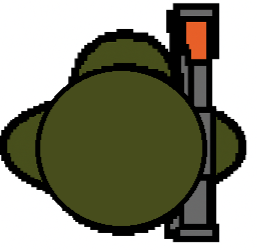
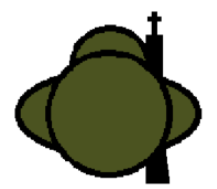
weapon switch

Changed region(s): [[0.0, 0.0, 0.9677, 0.9788]]

diff --git a/source/core/src/main/com/csse3200/game/components/hero/HeroOneShotFormSwitchComponent.java b/source/core/src/main/com/csse3200/game/components/hero/HeroOneShotFormSwitchComponent.java
@@ -1,37 +1,41 @@
 package com.csse3200.game.components.hero;
 
 import com.badlogic.gdx.Input;
+import com.badlogic.gdx.utils.Timer;
 import com.csse3200.game.entities.Entity;
 import com.csse3200.game.entities.configs.HeroConfig;
 import com.csse3200.game.entities.configs.HeroConfig2;
 import com.csse3200.game.entities.configs.HeroConfig3;
+import com.csse3200.game.input.InputComponent;
 import com.csse3200.game.rendering.RotatingTextureRenderComponent;
 import com.csse3200.game.services.ResourceService;
 import com.csse3200.game.services.ServiceLocator;
-import com.csse3200.game.input.InputComponent;
 import org.slf4j.Logger;
 import org.slf4j.LoggerFactory;
 
 import java.lang.reflect.Method;
 
 /**
- * 一次性“英雄换肤”组件（无 removeComponent 版本）：
- * - 如未生成英雄，按键时会懒查找；
- * - 切换成功后锁定并自注销；
- * - 优先 setTexture(String)；若无，则隐藏旧渲染(+尽量 dispose)，再添加新渲染组件。
+ * 一次性“英雄换肤”组件（轮询发现英雄 + 5 秒自动默认第一形态 + 无 removeComponent 兜底）。
  */
 public class HeroOneShotFormSwitchComponent extends InputComponent {
     private static final Logger logger = LoggerFactory.getLogger(HeroOneShotFormSwitchComponent.class);
 
-    private final HeroConfig  cfg1; // 1
+    private static final float POLL_INTERVAL_SEC = 0.25f; // 轮询查找英雄
+    private static final float AUTO_DEFAULT_DELAY_SEC = 5f; // 找到英雄后 5 秒默认第一形态
+
+    private final HeroConfig  cfg1; // 1（默认）
     private final HeroConfig2 cfg2; // 2
     private final HeroConfig3 cfg3; // 3
 
     private Entity hero;
     private boolean locked = false;
 
+    private Timer.Task pollTask;        // 轮询查找英雄
+    private Timer.Task autoDefaultTask; // 5 秒自动默认
+
     public HeroOneShotFormSwitchComponent(HeroConfig cfg1, HeroConfig2 cfg2, HeroConfig3 cfg3) {
-        super(1000);
+        super(1000); // 高优先级，保证拿到 1/2/3
         this.cfg1 = cfg1;
         this.cfg2 = cfg2;
         this.cfg3 = cfg3;
@@ -40,35 +44,85 @@ public class HeroOneShotFormSwitchComponent extends InputComponent {
     @Override
     public void create() {
         super.create();
-        // 预加载
+        // 预加载三套贴图，避免切换时资源缺失
         ResourceService rs = ServiceLocator.getResourceService();
         rs.loadTextures(new String[]{
-                (cfg1 != null ? cfg1.heroTexture : null),
-                (cfg2 != null ? cfg2.heroTexture : null),
-                (cfg3 != null ? cfg3.heroTexture : null)
+                cfg1 != null ? cfg1.heroTexture : null,
+                cfg2 != null ? cfg2.heroTexture : null,
+                cfg3 != null ? cfg3.heroTexture : null
         });
-        while (!rs.loadForMillis(5)) { /* spin */ }
+        while (!rs.loadForMillis(5)) { /* spin a bit */ }
 
-        ensureHeroFound(false);
+        // 立即跑一次，找到了就不用轮询
+        if (!tryFindHero()) {
+            // 英雄还没生成：启动轮询
+            armHeroPolling();
+        } else {
+            // 英雄已存在：直接启动 5 秒自动默认
+            armAutoDefaultTimer();
+        }
     }
 
-    private void ensureHeroFound(boolean verbose) {
-        if (hero != null) return;
+    private void armHeroPolling() {
+        if (pollTask != null) return;
+        pollTask = Timer.schedule(new Timer.Task() {
+            @Override
+            public void run() {
+                if (locked) { cancel(); pollTask = null; return; }
+                if (tryFindHero()) {
+                    logger.info("[HeroSkinSwitch] Found hero via polling. Arming auto-default timer ({}s).", (int)AUTO_DEFAULT_DELAY_SEC);
+                    cancel();            // 停止轮询
+                    pollTask = null;
+                    armAutoDefaultTimer();
+                }
+            }
+        }, 0f, POLL_INTERVAL_SEC); // 立刻开始，每 0.25s 查一次
+        logger.info("[HeroSkinSwitch] Polling for hero every {}s...", POLL_INTERVAL_SEC);
+    }
+
+    /** 尝试查找“正式英雄”（含 HeroTurretAttackComponent），找到返回 true */
+    private boolean tryFindHero() {
         for (Entity e : ServiceLocator.getEntityService().getEntities()) {
             if (e.getComponent(HeroTurretAttackComponent.class) != null) {
                 hero = e;
-                if (verbose) logger.info("[HeroSkinSwitch] Found hero on demand.");
-                return;
+                return true;
             }
         }
-        if (verbose) logger.info("[HeroSkinSwitch] Still no hero on map.");
+        return false;
+    }
+
+    private void armAutoDefaultTimer() {
+        if (autoDefaultTask != null || locked || hero == null) return;
+
+        autoDefaultTask = Timer.schedule(new Timer.Task() {
+            @Override
+            public void run() {
+                if (locked || hero == null) return;
+                boolean ok = switchOnce(cfg1 != null ? cfg1.heroTexture : null, "auto-1");
+                if (!ok) {
+                    logger.warn("[HeroSkinSwitch] Auto-default to form-1 FAILED (bad texture path?). User can still choose manually.");
+                }
+            }
+        }, AUTO_DEFAULT_DELAY_SEC);
+
+        logger.info("[HeroSkinSwitch] Auto-default to form-1 in {}s if no selection.", (int)AUTO_DEFAULT_DELAY_SEC);
+    }
+
+    private void cancelTimers() {
+        if (pollTask != null) {
+            pollTask.cancel();
+            pollTask = null;
+        }
+        if (autoDefaultTask != null) {
+            autoDefaultTask.cancel();
+            autoDefaultTask = null;
+        }
     }
 
     @Override
     public boolean keyDown(int keycode) {
         if (locked) return false;
-        if (hero == null) ensureHeroFound(true);
-        if (hero == null) return false;
+        if (hero == null && !tryFindHero()) return false; // 若还没英雄，忽略输入
 
         if (keycode == Input.Keys.NUM_1 || keycode == Input.Keys.NUMPAD_1) {
             return switchOnce(cfg1 != null ? cfg1.heroTexture : null, "1");
@@ -83,8 +137,7 @@ public class HeroOneShotFormSwitchComponent extends InputComponent {
     @Override
     public boolean keyTyped(char character) {
         if (locked) return false;
-        if (hero == null) ensureHeroFound(true);
-        if (hero == null) return false;
+        if (hero == null && !tryFindHero()) return false;
 
         if (character == '1') return switchOnce(cfg1 != null ? cfg1.heroTexture : null, "1");
         if (character == '2') return switchOnce(cfg2 != null ? cfg2.heroTexture : null, "2");
@@ -94,20 +147,21 @@ public class HeroOneShotFormSwitchComponent extends InputComponent {
 
     private boolean switchOnce(String texturePath, String keyTag) {
         if (texturePath == null || texturePath.isBlank()) {
-            logger.warn("[HeroSkinSwitch] Texture path for key {} is empty. Ignored.", keyTag);
+            logger.warn("[HeroSkinSwitch] Texture path for key {} is EMPTY. Ignored.", keyTag);
             return false;
         }
         boolean ok = applyTextureToHero(texturePath);
         if (ok) {
             locked = true;
+            cancelTimers();
             logger.info("[HeroSkinSwitch] Applied texture via key {} -> {}. Locked.", keyTag, texturePath);
-            this.entity.dispose(); // 一次性
+            this.entity.dispose(); // 一次性：注销自身（会从 InputService 注销）
         }
         return ok;
     }
 
     /**
-     * 先试 setTexture(String)；不行则隐藏旧渲染(并尝试 dispose)后，再添加一个新的渲染组件。
+     * 先尝试反射 setTexture(String)；若无，则隐藏旧渲染(透明 + 尽量 dispose)，再添加新渲染组件。
      */
     private boolean applyTextureToHero(String texturePath) {
         try {
@@ -117,29 +171,22 @@ public class HeroOneShotFormSwitchComponent extends InputComponent {
                 return false;
             }
 
-            // A) 反射尝试 setTexture(String)
+            // A) 反射调用 setTexture(String)
             try {
                 Method m = rot.getClass().getMethod("setTexture", String.class);
                 m.invoke(rot, texturePath);
                 return true;
             } catch (NoSuchMethodException noSetter) {
-                // B) 兜底：隐藏旧的 + 尽量 dispose + 新增一个渲染组件
+                // B) 兜底：隐藏旧渲染（透明）+ 尽量 dispose + 新增一个渲染组件
                 try {
-                    // 尝试隐藏旧渲染（透明）
                     Method setColor = rot.getClass().getMethod("setColor", float.class, float.class, float.class, float.class);
                     setColor.invoke(rot, 1f, 1f, 1f, 0f);
-                } catch (Throwable ignore) {
-                    // 如果没有 setColor 方法，忽略
-                }
+                } catch (Throwable ignore) {}
                 try {
-                    // 若组件实现了 dispose()，尽量释放资源（注意：并不一定移除组件引用）
                     Method dispose = rot.getClass().getMethod("dispose");
                     dispose.invoke(rot);
-                } catch (Throwable ignore) {
-                    // 没有 dispose 也没关系
-                }
+                } catch (Throwable ignore) {}
 
-                // 添加一个新的渲染组件（使用新的贴图路径）
                 hero.addComponent(new RotatingTextureRenderComponent(texturePath));
                 return true;
             }
@@ -148,5 +195,11 @@ public class HeroOneShotFormSwitchComponent extends InputComponent {
             logger.error("[HeroSkinSwitch] Failed to switch texture to {}: {}", texturePath, e.getMessage());
             return false;
         }
+    }
+
+    @Override
+    public void dispose() {
+        super.dispose();
+        cancelTimers();
     }
 }
